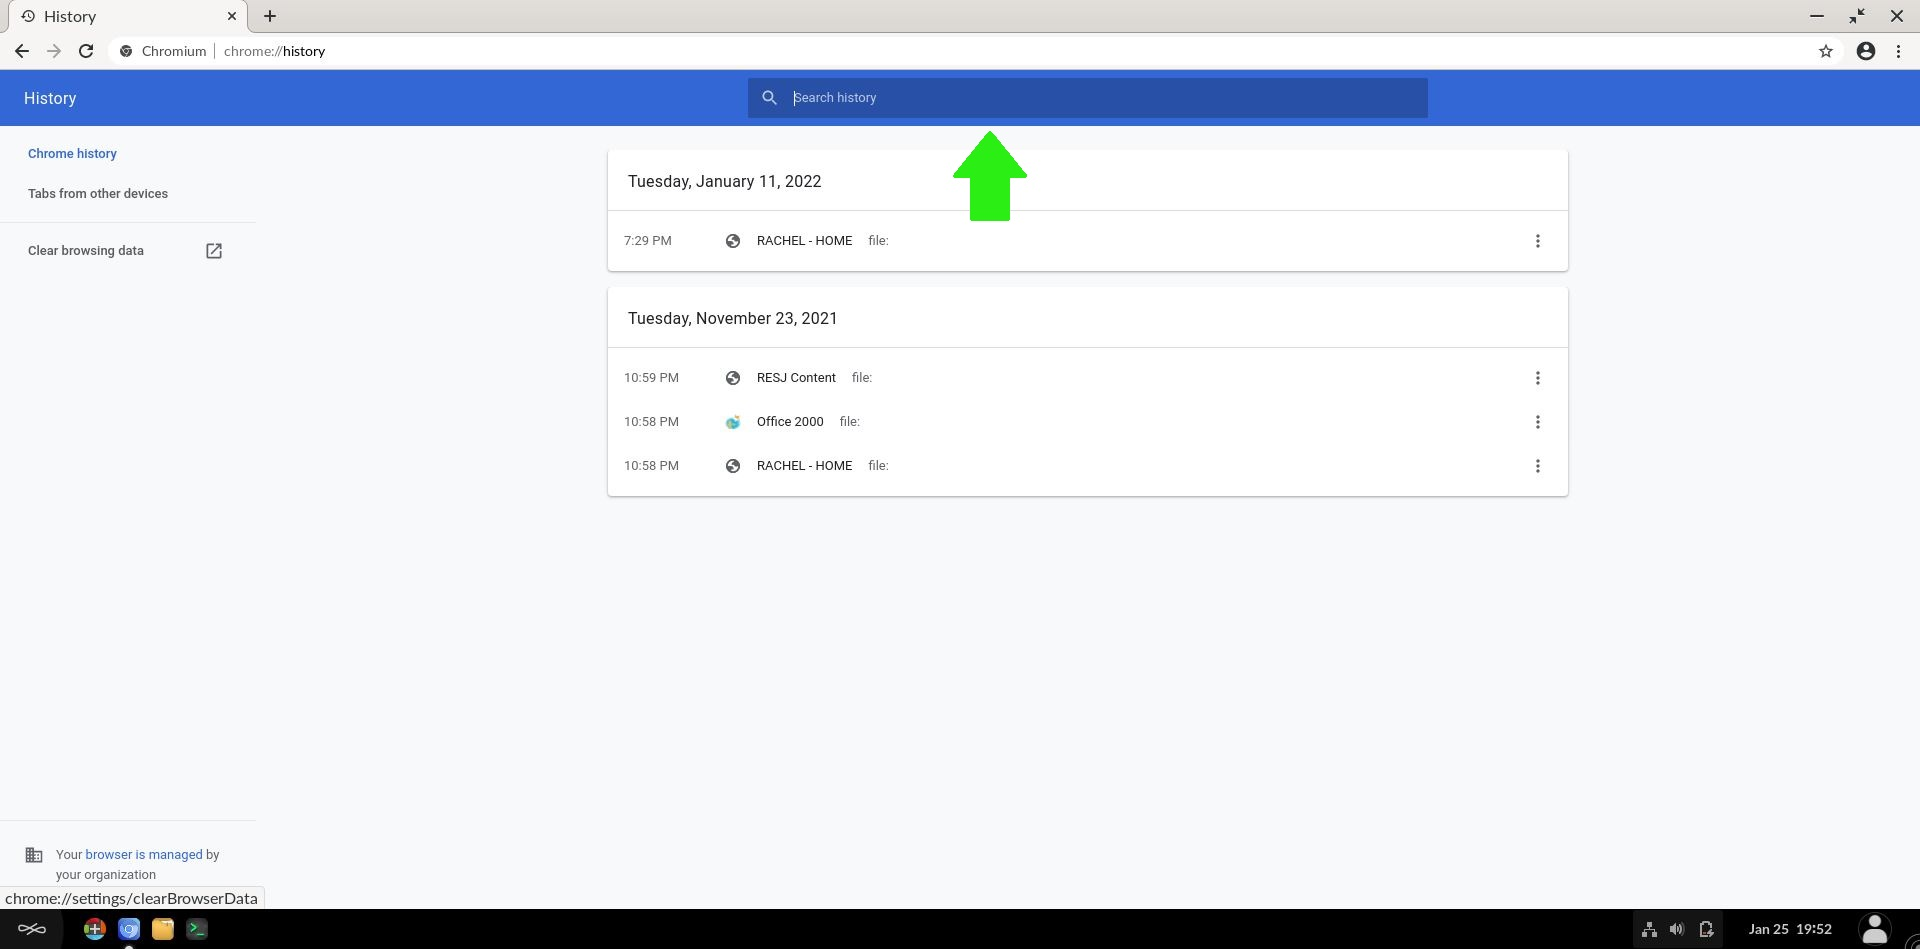
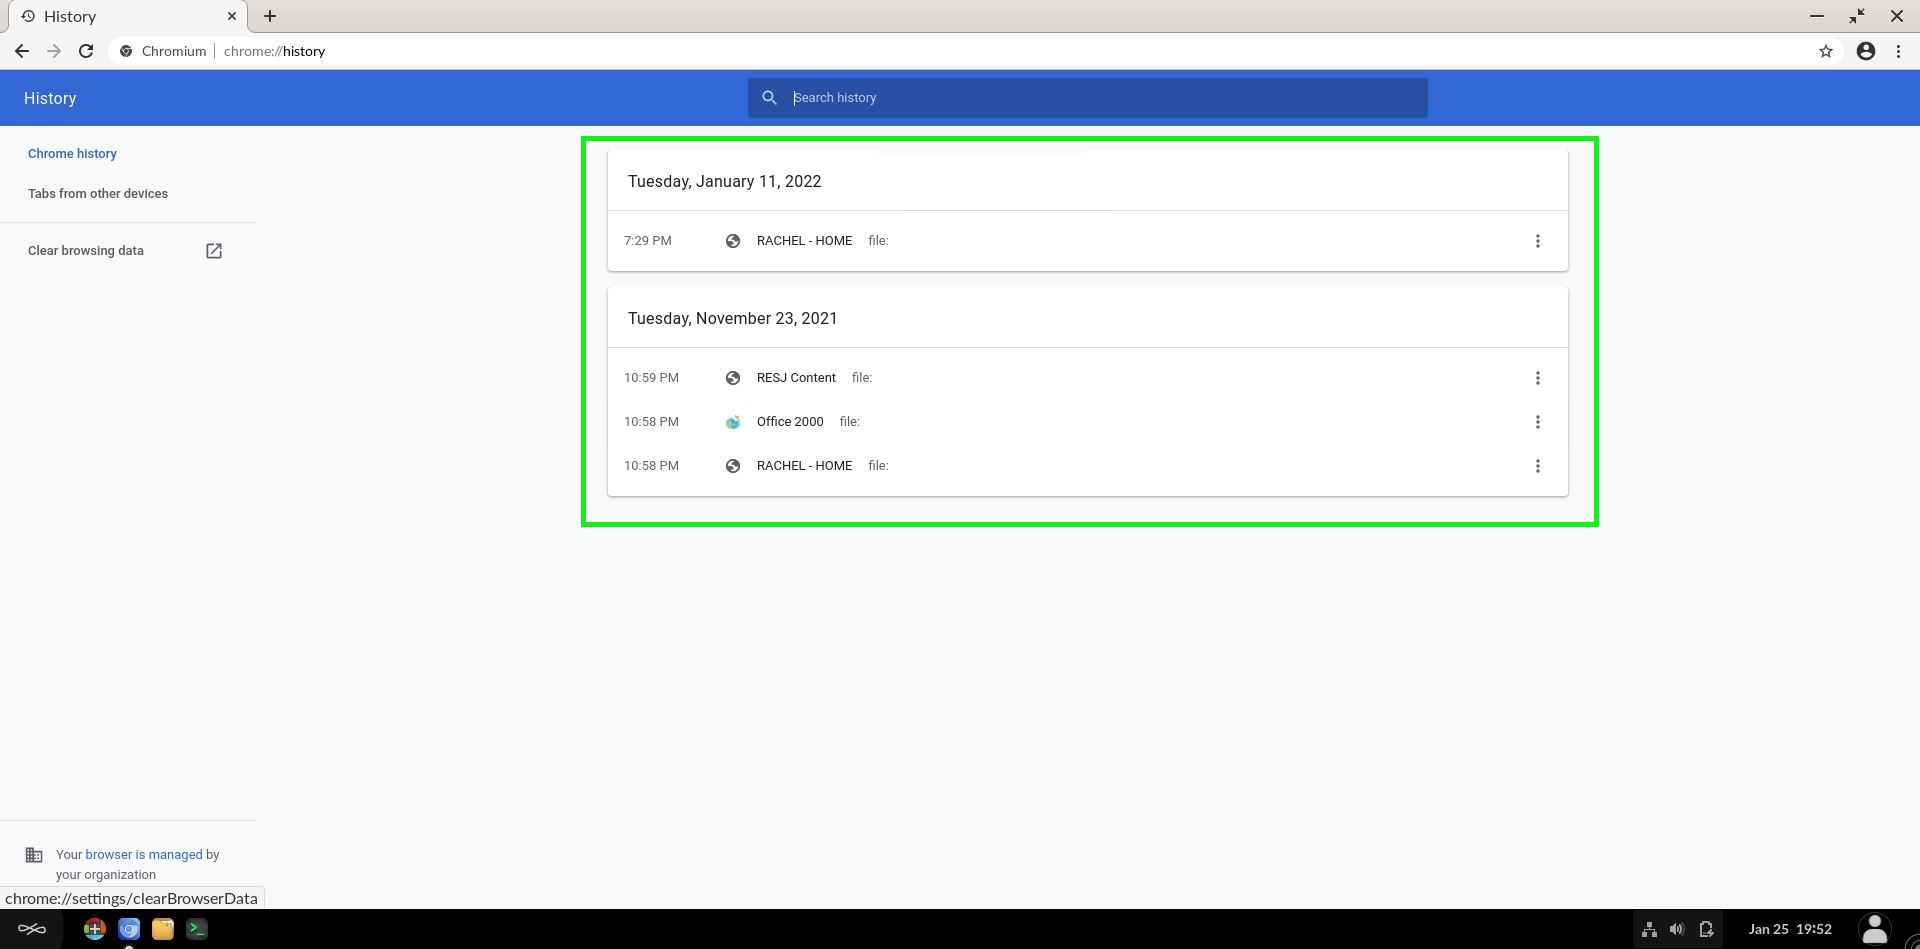
Content Update

Changed region(s): [[0.3125, 0.1222, 0.8438, 0.5806], [0.2812, 0.1528, 0.3125, 0.5501]]

diff --git a/deployments/michigan/MichiganDocumentation/Checking Browser History.md b/deployments/michigan/MichiganDocumentation/Checking Browser History.md
@@ -24,10 +24,19 @@ To accomplish these processes, you will need:
 
 ---
 
-Here the student's Browser History can be viewed and even searched using the searchbar at the top.
+In the center of the page, below the searchbar, is the history area that will display all of the student's browser history in chronological order, newest history being at the top.
 
 ---
 
 ![history.jpg](../_resources/history.jpg)
+
+---
+
+Here the student's Browser History can be viewed
+Additionally, the searchbar at the top allows you to use keywords or website names to narrow your search through the saved history.
+
+---
+
+![SearchHistory.jpg](../_resources/SearchHistory.jpg)
 
 ---
